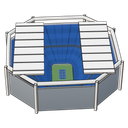
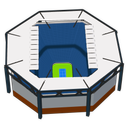
Fallback models for the pilot: L&N, Rupp, Q2, Bristol builders; depth and edge controls
Q2 has no OSM polygon, so its footprint and pitch were traced from NAIP.
L&N's bowl is capped at measured stand depths (the OSM polygon includes
plazas). Daytona is reframed on the grandstand side. render.mjs accepts
CHROMIUM_PATH and saves the normal pass for edge extraction.

Claude-Session: https://claude.ai/code/session_01C5PnapxgJNtXNmtS3P7or9

diff --git a/scripts/stadiums/art2/venues.js b/scripts/stadiums/art2/venues.js
@@ -615,13 +615,12 @@ function daytona({ fp, mat, info }) {
   }
   // Light poles along the outside of the turn entries.
   for (const u of [-520, -480, 480, 520]) { const p = toW([u, frontV(u) + W / 2 + 14]); const pole = K.box(0.8, 32, 0.8, '#c8cbcf', mat, { kind: 'steel', bevel: 0 }); pole.position.set(p[0], 0, p[1]); g.add(pole) }
-  // Frame: grandstand, front stretch, pit road and the banked turn entries.
-  g.userData.frame = [[-260, R - 40], [600, R - 60], [-260, R + DOG + W / 2 + 90], [600, R + W / 2 + 40]].map(([u, v]) => toW([u, v]))
-  g.userData.fadeEdges = true // cut-away: the stretch continues past the frame, so the sprite fades out at its borders
-  // Looking along the front stretch toward turn 1 from the infield: the
-  // grandstand recedes on the left and the 31-degree banking rises ahead.
-  g.userData.cameraBearing = 170
-  g.userData.cameraElev = 34
+  // Frame (overhaul): the front half of the tri-oval. The
+  // camera sits beyond the back stretch looking across the infield at the
+  // frontstretch grandstand, which faces it (brief: frame on the grandstand side).
+  g.userData.frame = [[-S - R * 0.35, R * 0.55], [S + R * 0.35, R * 0.55], [-S - R * 0.35, R + DOG + W / 2 + 90], [S + R * 0.35, R + DOG + W / 2 + 90]].map(([u, v]) => toW([u, v])) // grandstand, front stretch, pit road and both turn entries
+  g.userData.cameraBearing = 128 // opposite the grandstand side (bearing 308)
+  g.userData.cameraElev = 36
   return g
 }
 
@@ -733,6 +732,198 @@ function ashe({ fp, mat, info }) {
   return g
 }
 
+// ── Overhaul fallback builders (2026-11-08) ──────────────────────────────────
+// Geometry for the depth/edge conditioning of venues with no whole-venue
+// oblique photo (docs/overhaul/brief.md, step 6). Plan dimensions come from the
+// OSM footprint or a NAIP trace; heights from the reference photos listed in
+// docs/overhaul/specs/<slug>.md. Colors matter little here: generation takes
+// its colors from the prompt and IP-Adapter, so these models carry shape only.
+function extrude(pts, h, color, mat, opts = {}, holes = []) {
+  const shape = new THREE.Shape(pts.map(([x, z]) => new THREE.Vector2(x, -z)))
+  for (const hp of holes) shape.holes.push(new THREE.Path(hp.map(([x, z]) => new THREE.Vector2(x, -z))))
+  const g = new THREE.ExtrudeGeometry(shape, { depth: h, bevelEnabled: false })
+  g.rotateX(-Math.PI / 2)
+  const m = new THREE.Mesh(g, mat(color, opts)); m.castShadow = m.receiveShadow = true
+  m.position.y = opts.y || 0
+  return m
+}
+const offsetRect = (c, ax, hl, hw) => { const n = [-ax[1], ax[0]]; return [[-1, -1], [1, -1], [1, 1], [-1, 1]].map(([a, b]) => [c[0] + ax[0] * a * hl + n[0] * b * hw, c[1] + ax[1] * a * hl + n[1] * b * hw]) }
+
+// L&N Federal Credit Union Stadium: closed bowl (north end closed in 2018),
+// field north-south (OSM axis 179), tall west press box tower, east upper deck
+// under a white canopy, video board over the north end (#3, #7, NAIP).
+function landn({ fp: fp0, mat, info }) {
+  // The OSM polygon includes plazas around the bowl (330 x 283 m). Cap the
+  // outline at the stand depths read from NAIP: ~62 m behind the sidelines,
+  // ~48 m behind the end lines, measured from the field edge.
+  const c0 = K.centroid(fp0.pts), cap = { cx: c0[0], cz: c0[1], hx: 109.73 / 2 + 48, hz: 48.77 / 2 + 62, rr: 30, ang: -Math.PI / 2 }
+  const capped = []; for (let i = 0; i < 360; i += 2) { const d = K.bearingVec(i); capped.push([c0[0] + d[0] * Math.min(K.rayHit(c0, d, fp0.pts), K.rectHit(c0, d, cap, 0)), c0[1] + d[1] * Math.min(K.rayHit(c0, d, fp0.pts), K.rectHit(c0, d, cap, 0))]) }
+  const fp = { ...fp0, pts: capped }
+  const cl = info.colors || {}
+  const SEAT = cl['seats (aerial)'] || '#a25e5e', BRICK = cl['facade brick'] || '#4a372f', GLASS = cl['facade glass'] || '#627b78'
+  const rimAt = (th) => { // rim height by bearing from the field center
+    const r = (th * Math.PI) / 180
+    return 22 + 7 * Math.sin(r) /* east higher */ + 4 * Math.cos(r) /* north end higher than south */ - 3 * Math.abs(Math.cos(r)) * (Math.cos(r) < 0 ? 1 : 0)
+  }
+  const { g, field, center } = footballBowl({
+    fp, mat, axisDeg: 0, apron: 8, rowCount: 50,
+    profile: (u, th) => {
+      const H = rimAt(th)
+      if (u > 0.97) return { h: H, color: '#d9d8d2' }
+      // East side: lower bowl, concourse step, then the upper deck.
+      if (th > 45 && th < 135 && u > 0.55) return { h: K.lerp(14, H - 0.5, (u - 0.55) / 0.42), color: SEAT, seat: true }
+      return { h: K.lerp(1.5, th > 45 && th < 135 ? 13 : H - 0.5, Math.min(1, u / (th > 45 && th < 135 ? 0.55 : 0.97))), color: SEAT, seat: true }
+    },
+    facade: BRICK,
+  })
+  g.add(fieldMesh(g.userData.innerRing, 0.05, (ctx, toPx, ppm) => K.footballField(ctx, toPx, ppm, { ...field, grass: '#4f8f3c', grass2: '#58994a', surround: '#4f8f3c', endzone: '#3a3a3a', endzoneText: '#b51f2a' }), mat))
+  const east = K.bearingVec(90)
+  // West press box and suite tower: brick ends, glass field face, seven levels (#7).
+  const offW = K.rayHit(center, [-east[0], -east[1]], fp.pts) - 14
+  const t = new THREE.Group()
+  t.add(K.box(150, 18, 22, GLASS, mat, { kind: 'glass' }))
+  for (let k = 1; k < 5; k++) { const s = K.box(150.4, 0.6, 22.4, '#d9d8d2', mat, { kind: 'concrete' }); s.position.y = k * 3.6; t.add(s) }
+  const roof = K.box(154, 1.2, 25, '#e8e7e2', mat, { kind: 'concrete' }); roof.position.y = 18; t.add(roof)
+  for (const e of [-1, 1]) { const tw = K.box(12, 24, 24, BRICK, mat, { kind: 'brick' }); tw.position.x = e * 81; t.add(tw) }
+  K.place(t, [center[0] - east[0] * offW, center[1] - east[1] * offW], 24, 0)
+  g.add(t)
+  // East upper-deck canopy: a white roof plane over the top rows.
+  const offE = K.rayHit(center, east, fp.pts) - 8
+  const canopy = K.box(160, 1.4, 18, '#efefea', mat, { kind: 'metal' })
+  g.add(K.place(canopy, [center[0] + east[0] * offE, center[1] + east[1] * offE], rimAt(90) + 7, 0))
+  for (let k = -3; k <= 3; k++) { const col = K.box(1.2, 7, 1.2, '#efefea', mat, { kind: 'metal' }); g.add(K.place(col, [center[0] + east[0] * (offE + 7) + k * 0, center[1] + east[1] * (offE + 7) + k * 24], rimAt(90), 0)) }
+  // North end video board on the closed end (#3).
+  const north = K.bearingVec(0)
+  const offN = K.rayHit(center, north, fp.pts) - 10
+  g.add(K.place(K.scoreboard(34, 12, rimAt(0) + 2, mat), [center[0] + north[0] * offN, center[1] + north[1] * offN], 0, 90))
+  // Light towers on the east and west rims (#3).
+  for (const sgn of [-1, 1]) for (const along of [-50, 50]) g.add(K.place(K.lightTower(rimAt(sgn > 0 ? 90 : 270) + 14, mat), [center[0] + east[0] * sgn * (K.rayHit(center, [east[0] * sgn, east[1] * sgn], fp.pts) - 4), center[1] + along], 0, 0))
+  return g
+}
+
+// Rupp Arena: flat-roofed rectangular box (OSM, 162 x 144 m, axis 129),
+// beige ribbed metal walls above a dark glass base, diagonal-braced corner
+// stair towers (#13, #15), light flat roof with rooftop units (NAIP).
+function rupp({ fp, mat, info }) {
+  const cl = info.colors || {}
+  const WALL = cl['facade metal'] || '#c8beaf', GLASS = cl['facade glass'] || '#223243', ROOF = cl['roof (aerial)'] || '#d7d8d5'
+  const pts = fp.pts, c = K.centroid(pts)
+  const g = new THREE.Group()
+  const inset = pts.map(([x, z]) => { const dx = x - c[0], dz = z - c[1], L = Math.hypot(dx, dz); return [x - (dx / L) * 1.5, z - (dz / L) * 1.5] })
+  g.add(extrude(inset, 7, GLASS, mat, { kind: 'glass' }))
+  g.add(extrude(pts, 25, WALL, mat, { kind: 'metal', y: 7 }))
+  g.add(extrude(pts, 1.4, K.tone(WALL, 1.1), mat, { kind: 'metal', y: 32 }))
+  g.add(extrude(inset, 0.6, ROOF, mat, { kind: 'concrete', y: 32 }))
+  // Vertical ribs on the long walls read as fine lines in the edge map.
+  for (let i = 0; i < pts.length; i++) {
+    const a = pts[i], b = pts[(i + 1) % pts.length], L = Math.hypot(b[0] - a[0], b[1] - a[1]); if (L < 20) continue
+    const brg = K.vecBearing([b[0] - a[0], b[1] - a[1]])
+    for (let k = 4; k < L - 4; k += 4) { const t = k / L; g.add(K.place(K.box(0.5, 25, 0.5, K.tone(WALL, 0.88), mat, { kind: 'metal', bevel: 0 }), [K.lerp(a[0], b[0], t), K.lerp(a[1], b[1], t)], 7, brg)) }
+  }
+  // Corner stair towers with X bracing at the four main corners.
+  const corners = pts.map((p, i) => ({ p, d: Math.hypot(p[0] - c[0], p[1] - c[1]) })).sort((x, y) => y.d - x.d).slice(0, 4)
+  for (const { p } of corners) {
+    const dir = [p[0] - c[0], p[1] - c[1]], L = Math.hypot(...dir), at = [p[0] + (dir[0] / L) * 3, p[1] + (dir[1] / L) * 3]
+    const tw = new THREE.Group()
+    tw.add(K.box(9, 30, 9, K.tone(WALL, 0.95), mat, { kind: 'metal' }))
+    for (let y = 2; y < 28; y += 6.5) for (const sgn of [-1, 1]) { const br = K.box(12, 0.5, 0.5, '#5b5f63', mat, { kind: 'metal', bevel: 0 }); br.position.set(0, y + 3, 4.8); br.rotation.z = sgn * 0.55; tw.add(br) }
+    g.add(K.place(tw, at, 0, K.vecBearing(dir) + 90))
+  }
+  // Rooftop mechanical units (NAIP shows small boxes along the roof's center).
+  for (let k = -2; k <= 2; k++) g.add(K.place(K.box(10, 3, 6, '#b9bab6', mat, { kind: 'metal' }), [c[0] + k * 18, c[1] + 6], 32.6, 39))
+  return g
+}
+
+// Q2 Stadium: footprint and pitch traced from NAIP (no OSM polygon). Steep
+// stands on all four sides close to the touchlines, a continuous white roof
+// ring on exposed steel trusses over every stand, the tallest on the west
+// (#1, #9, NAIP).
+function q2({ fp, mat, info, osm }) {
+  const cl = info.colors || {}
+  const SEAT = cl['seats (sun)'] || '#264129', ROOF = cl['roof (aerial)'] || '#eceae6', STEEL = '#f2f2ee', SLAT = cl['facade green slats'] || '#196249'
+  const pts = fp.pts
+  const fieldPts = info.field || offsetRect(K.centroid(pts), K.bearingVec(159), 52.5, 34)
+  const fc = [fieldPts.reduce((s, p) => s + p[0], 0) / 4, fieldPts.reduce((s, p) => s + p[1], 0) / 4]
+  const along = [fieldPts[3][0] - fieldPts[0][0], fieldPts[3][1] - fieldPts[0][1]], alongLen = Math.hypot(...along)
+  const ang = Math.atan2(along[1], along[0])
+  const field = { cx: fc[0], cz: fc[1], hx: alongLen / 2, hz: Math.hypot(fieldPts[1][0] - fieldPts[0][0], fieldPts[1][1] - fieldPts[0][1]) / 2, rr: 0.5, ang }
+  const westBrg = (K.vecBearing(along) + 90) % 360 // the west side is 90 deg clockwise of the pitch axis
+  const rim = (th) => { const d = ((th - westBrg + 540) % 360) - 180; return 15 + 9 * Math.max(0, Math.cos((d * Math.PI) / 180)) }
+  const g = K.bowl({ center: fc, outline: pts, inner: (th, d) => K.rectHit(fc, d, field, 7), nTheta: 480, nU: 30, rows: true, rowCount: 34,
+    profile: (u, th) => (u > 0.96 ? { h: rim(th), color: '#cfcfca' } : { h: K.lerp(1.2, rim(th) - 0.4, u / 0.96), color: SEAT, seat: true }), facade: SLAT }, mat)
+  const pitch = fieldMesh(g.userData.innerRing, 0.05, (ctx, toPx, ppm) => {
+    ctx.fillStyle = '#5c8d3a'; ctx.fillRect(0, 0, ctx.canvas.width, ctx.canvas.height)
+    const cs = Math.cos(ang), sn = Math.sin(ang), at = (u, v) => toPx([fc[0] + u * cs - v * sn, fc[1] + u * sn + v * cs])
+    for (let k = 0; k < 14; k++) { ctx.fillStyle = k % 2 ? '#5c8d3a' : '#679a43'; ctx.beginPath(); for (const [u, v] of [[-field.hx + k * field.hx / 7, -field.hz], [-field.hx + (k + 1) * field.hx / 7, -field.hz], [-field.hx + (k + 1) * field.hx / 7, field.hz], [-field.hx + k * field.hx / 7, field.hz]]) ctx.lineTo(...at(u, v)); ctx.fill() }
+    ctx.strokeStyle = '#f4f4ef'; ctx.lineWidth = 0.2 * ppm
+    ctx.beginPath(); for (const [u, v] of [[-field.hx, -field.hz], [field.hx, -field.hz], [field.hx, field.hz], [-field.hx, field.hz], [-field.hx, -field.hz]]) ctx.lineTo(...at(u, v)); ctx.stroke()
+    ctx.beginPath(); ctx.moveTo(...at(0, -field.hz)); ctx.lineTo(...at(0, field.hz)); ctx.stroke()
+    ctx.beginPath(); const [px, py] = at(0, 0); ctx.arc(px, py, 9.15 * ppm, 0, Math.PI * 2); ctx.stroke()
+    for (const e of [-1, 1]) { ctx.beginPath(); for (const [u, v] of [[e * field.hx, -20.16], [e * (field.hx - 16.5), -20.16], [e * (field.hx - 16.5), 20.16], [e * field.hx, 20.16]]) ctx.lineTo(...at(u, v)); ctx.stroke() }
+  }, mat)
+  g.add(pitch)
+  // Roof ring: outer footprint with a hole 9 m outside the pitch, on trusses.
+  const hole = offsetRect(fc, [Math.cos(ang), Math.sin(ang)], field.hx + 9, field.hz + 9)
+  const roofY = 30
+  g.add(extrude(pts, 1.2, ROOF, mat, { kind: 'metal', y: roofY }, [hole]))
+  // Exposed trusses: radial beams from the hole edge to the outline, every ~9 m.
+  for (let th = 0; th < 360; th += 2.2) {
+    const d = K.bearingVec(th), r0 = K.rectHit(fc, d, { ...field, hx: field.hx + 9, hz: field.hz + 9 }, 0), r1 = K.rayHit(fc, d, pts)
+    if (!(r1 > r0)) continue
+    const mid = [fc[0] + d[0] * (r0 + r1) / 2, fc[1] + d[1] * (r0 + r1) / 2]
+    const beam = K.box(r1 - r0, 2.2, 0.5, STEEL, mat, { kind: 'metal', bevel: 0 }); g.add(K.place(beam, mid, roofY - 2.2, th))
+  }
+  // Roof columns along the outline.
+  for (let i = 0; i < pts.length; i++) { const a = pts[i], b = pts[(i + 1) % pts.length], L = Math.hypot(b[0] - a[0], b[1] - a[1]); for (let k = 10; k < L; k += 22) { const t = k / L; g.add(K.place(K.box(1.4, roofY, 1.4, STEEL, mat, { kind: 'metal' }), [K.lerp(a[0], b[0], t), K.lerp(a[1], b[1], t)], 0, 0)) } }
+  return g
+}
+
+// Bristol Motor Speedway: 0.533-mile concrete oval (two ~198 m straights,
+// ~73.5 m turn radius) with 24-28 degree banking in the turns, enclosed by
+// tall steep grandstands all the way round (OSM footprint 456 x 350 m, axis
+// 142; #26, #30). Infield with pit road and garages.
+function bristol({ fp, mat, info }) {
+  const cl = info.colors || {}
+  const GRAY = cl['seats gray'] || '#84888c', RED = cl['seats red'] || '#75424d', TRACK = cl.track || '#585c5f', STEEL = cl['facade steel'] || '#192332'
+  const pts = fp.pts, c = K.centroid(pts)
+  const axB = 142, ax = K.bearingVec(axB), nx = K.bearingVec(axB + 90)
+  const S = 99, R = 73.5, TW = 14
+  const toW = (u, v) => [c[0] + ax[0] * u + nx[0] * v, c[1] + ax[1] * u + nx[1] * v]
+  // Oval centerline point and outward normal at parameter s (0..1).
+  const L1 = 2 * S, L2 = Math.PI * R, tot = 2 * L1 + 2 * L2
+  const at = (s, off) => { let d = s * tot, u, v, nu, nv
+    if (d < L1) { u = -S + d; v = -R; nu = 0; nv = -1 } else if ((d -= L1) < L2) { const a = -Math.PI / 2 + d / R; u = S + R * Math.cos(a); v = R * Math.sin(a); nu = Math.cos(a); nv = Math.sin(a) }
+    else if ((d -= L2) < L1) { u = S - d; v = R; nu = 0; nv = 1 } else { d -= L1; const a = Math.PI / 2 + d / R; u = -S + R * Math.cos(a); v = R * Math.sin(a); nu = Math.cos(a); nv = Math.sin(a) }
+    return { p: toW(u + nu * off, v + nv * off), turn: Math.abs(u) > S - 1 } }
+  const g = new THREE.Group()
+  // Banked track surface: inner edge at grade, outer edge raised by the banking.
+  const n = 720, tp = [], ti = [], tc = [], col = new THREE.Color(K.tone(TRACK, 1.5))
+  const bankH = (s) => { const q = at(s, 0); return TW * Math.tan(((q.turn ? 26 : 6) * Math.PI) / 180) }
+  const hs = []; for (let i = 0; i < n; i++) hs.push(bankH(i / n))
+  const sm = hs.map((_, i) => { let a = 0; for (let k = -12; k <= 12; k++) a += hs[(i + k + n) % n]; return a / 25 })
+  for (let i = 0; i < n; i++) { const a = at(i / n, -TW / 2), b = at(i / n, TW / 2); tp.push(a.p[0], 0.2, a.p[1], b.p[0], 0.2 + sm[i], b.p[1]); tc.push(col.r, col.g, col.b, col.r, col.g, col.b) }
+  for (let i = 0; i < n; i++) { const a = i * 2, b = ((i + 1) % n) * 2; ti.push(a, b, a + 1, b, b + 1, a + 1) }
+  const tg = new THREE.BufferGeometry(); tg.setAttribute('position', new THREE.Float32BufferAttribute(tp, 3)); tg.setAttribute('color', new THREE.Float32BufferAttribute(tc, 3)); tg.setIndex(ti); tg.computeVertexNormals()
+  const tm = new THREE.Mesh(tg, mat('#ffffff', { vertex: true, side: THREE.DoubleSide, kind: 'concrete' })); tm.castShadow = tm.receiveShadow = true; g.add(tm)
+  // Outer retaining wall on top of the banking.
+  const wallPts = []; for (let i = 0; i < n; i++) wallPts.push(at(i / n, TW / 2 + 0.6).p)
+  const outerRing = []; for (let i = 0; i < n; i += 4) outerRing.push(at(i / n, TW / 2 + 1.2).p)
+  // Grandstands: steep bowl from the wall to the footprint, rising to ~40 m.
+  const stands = K.bowl({ center: c, outline: pts, inner: (th, d) => K.rayHit(c, d, outerRing) + 1, nTheta: 540, nU: 36, rows: true, rowCount: 60,
+    profile: (u, th) => { const rel = ((th - axB + 360) % 360); const red = rel > 200 && rel < 340 && u > 0.45; return u > 0.97 ? { h: 52, color: '#d6d6d2' } : { h: K.lerp(6, 51, Math.pow(u / 0.97, 0.9)), color: red ? RED : GRAY, seat: true } },
+    facade: STEEL }, mat)
+  g.add(stands)
+  // Infield: concrete pad, pit road along one straight, garage rows.
+  const infield = []; for (let i = 0; i < n; i += 6) infield.push(at(i / n, -TW / 2 - 0.5).p)
+  g.add(K.flatPoly(infield, 0.15, mat('#9da3a6', { kind: 'concrete' })))
+  for (let k = -3; k <= 3; k++) g.add(K.place(K.box(24, 4, 8, '#e3e3df', mat, { kind: 'metal' }), toW(k * 26, -12), 0.2, axB))
+  g.add(K.place(K.box(150, 6, 18, '#e9e8e4', mat, { kind: 'metal' }), toW(0, 22), 0.2, axB))
+  // Suites and press box along the top of the front stretch; hanging video cube over the infield.
+  g.add(K.place(K.box(220, 10, 12, '#e9e9e5', mat, { kind: 'glass' }), toW(0, R + 72), 50, axB))
+  const cube = K.box(14, 10, 14, '#2a2e33', mat, { kind: 'glass' }); g.add(K.place(cube, toW(0, 0), 34, axB))
+  return g
+}
+
 export const BUILDERS = {
   'michigan-stadium': michigan,
   'yulman-stadium': yulman,
@@ -742,4 +933,8 @@ export const BUILDERS = {
   'madison-square-garden': msg,
   'daytona-international-speedway': daytona,
   'arthur-ashe-stadium': ashe,
+  'landn-federal-credit-union-stadium': landn,
+  'rupp-arena': rupp,
+  'q2-stadium': q2,
+  'bristol-motor-speedway': bristol,
 }

diff --git a/scripts/stadiums/art2/render.html b/scripts/stadiums/art2/render.html
@@ -103,6 +103,7 @@ function lights(scene, style, radius, center, camBearing = CAM_BEARING) {
 window.renderVenue = async (slug, style, footprint, info, size = 2048) => {
   const mat = K.makeMaterials(style)
   const fp = K.project(footprint)
+  if (info && info.fieldLL) info.field = info.fieldLL.map(fp.toLocal) // pitch corners traced from NAIP
   const model = BUILDERS[slug]({ fp, kit: K, mat, THREE, info: info || {} })
   const scene = new THREE.Scene()
   scene.background = new THREE.Color(0x000000)

diff --git a/scripts/stadiums/overhaul/prep_fallback.py b/scripts/stadiums/overhaul/prep_fallback.py
@@ -1,0 +1,40 @@
+# Conditioning images for fallback venues (brief step 6): depth and edges
+# rendered from the NAIP-measured model at the standard camera
+# (scripts/stadiums/art2/render.mjs, 38 degrees elevation).
+# Input:  scripts/stadiums/art2/out/control/<slug>-{depth,mask,normal}.png
+# Output: <out>/controls/<slug>/{depth,edges}.png, cropped to the model with a
+#         margin and letterboxed to 3:2 on black (the generator's frame).
+# Usage: python3 scripts/stadiums/overhaul/prep_fallback.py <out_dir> slug [slug ...]
+import os, sys
+import numpy as np, cv2
+from PIL import Image
+
+out, slugs = sys.argv[1], sys.argv[2:]
+SRC = 'scripts/stadiums/art2/out/control'
+for slug in slugs:
+    load = lambda k, mode: np.array(Image.open(f'{SRC}/{slug}-{k}.png').convert(mode))
+    depth, mask, normal = load('depth', 'L').astype(np.float32), load('mask', 'L') > 127, load('normal', 'RGB')
+    # Stretch depth over the model only, so the venue spans the full range.
+    v = depth[mask]
+    lo, hi = np.percentile(v, 1), np.percentile(v, 99.5)
+    d = np.clip((depth - lo) / max(1e-6, hi - lo), 0, 1) * 0.85 + 0.15
+    d[~mask] = 0
+    # Edges: creases from the normal pass, steps from depth, and the silhouette.
+    e1 = np.zeros(mask.shape, np.uint8)
+    for ch in range(3): e1 |= cv2.Canny(normal[..., ch], 40, 110)
+    e2 = cv2.Canny((d * 255).astype(np.uint8), 20, 60)
+    e3 = cv2.Canny(mask.astype(np.uint8) * 255, 100, 200)
+    edges = (e1 | e2 | e3) * mask.astype(np.uint8) | e3
+    # Crop to the model with a 6% margin, then letterbox to 3:2.
+    ys, xs = np.where(mask)
+    y0, y1, x0, x1 = ys.min(), ys.max(), xs.min(), xs.max()
+    m = int(0.06 * max(y1 - y0, x1 - x0))
+    y0, x0 = max(0, y0 - m), max(0, x0 - m); y1, x1 = min(mask.shape[0], y1 + m), min(mask.shape[1], x1 + m)
+    os.makedirs(f'{out}/controls/{slug}', exist_ok=True)
+    for name, arr in [('depth', (d * 255).astype(np.uint8)), ('edges', edges)]:
+        crop = Image.fromarray(arr[y0:y1, x0:x1])
+        W, H = 1216, 832
+        crop.thumbnail((W, H), Image.LANCZOS)
+        canvas = Image.new('L', (W, H), 0); canvas.paste(crop, ((W - crop.width) // 2, (H - crop.height) // 2))
+        canvas.save(f'{out}/controls/{slug}/{name}.png')
+    print(slug, 'ok', (x1 - x0, y1 - y0))
